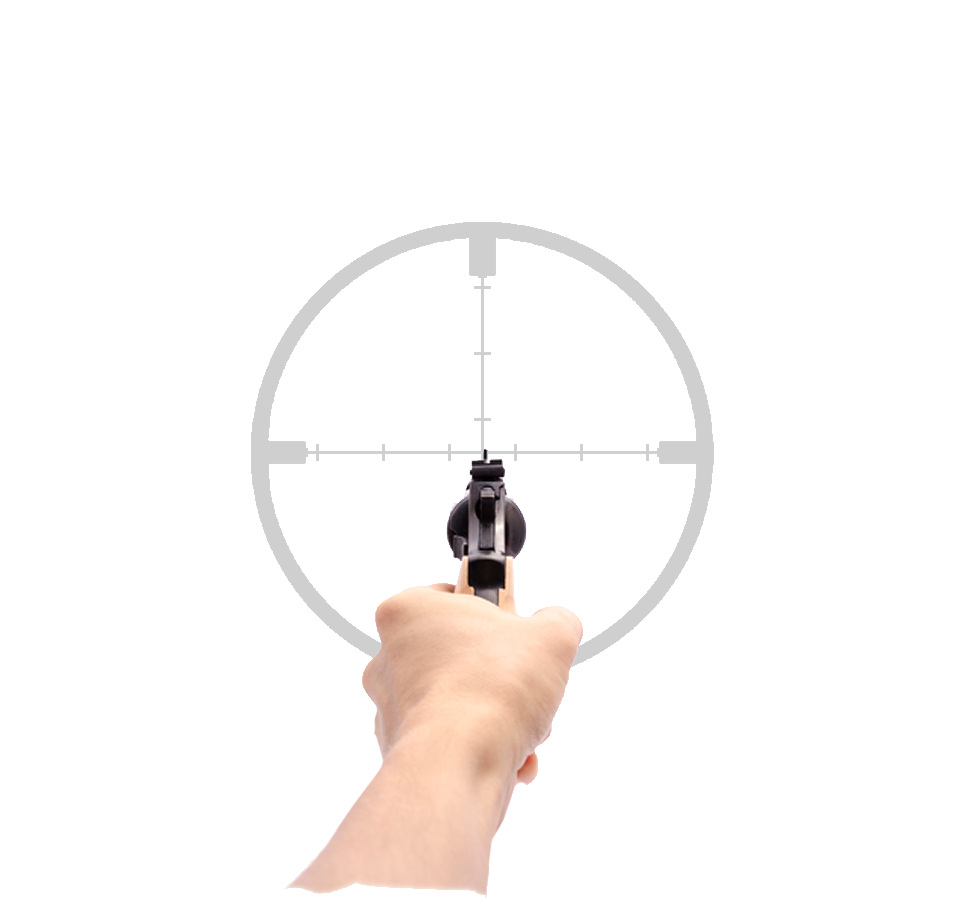
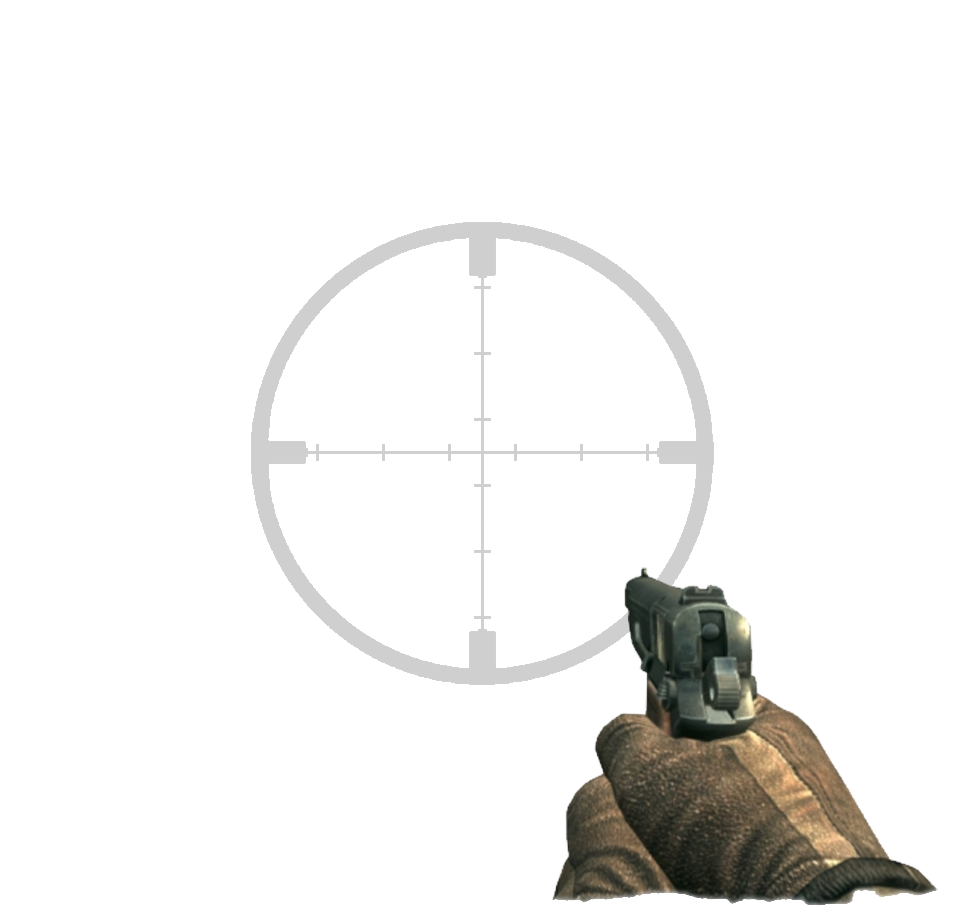
test

Changed region(s): [[0.5752, 0.6181, 0.9687, 1.0], [0.3027, 0.4945, 0.6054, 0.989]]

diff --git a/high-noon.html b/high-noon.html
@@ -4,7 +4,7 @@
     <meta charset="utf-8">
     <meta name="viewport" content="width=device-width, initial-scale=1">
 
-    <title>High noon</title>
+    <title>High Noon</title>
 
     <link href="bootstrap.min.css" rel="stylesheet">
     <link href="navbar-top-fixed.css" rel="stylesheet">
@@ -13,41 +13,12 @@
 </head>
 <body style="background-image: url('bg1.png');">
 
-<!--<nav class="navbar navbar-expand-md navbar-dark fixed-top bg-dark">-->
-<!--    <div class="container-fluid">-->
-<!--        <a class="navbar-brand" href="#">High Noon</a>-->
-<!--        <button class="navbar-toggler" type="button" data-bs-toggle="collapse" data-bs-target="#navbarCollapse"-->
-<!--                aria-controls="navbarCollapse" aria-expanded="false" aria-label="Toggle navigation">-->
-<!--            <span class="navbar-toggler-icon"></span>-->
-<!--        </button>-->
-<!--        <div class="collapse navbar-collapse" id="navbarCollapse">-->
-<!--            <ul class="navbar-nav me-auto mb-2 mb-md-0">-->
-<!--                <li class="nav-item">-->
-<!--                    <a class="nav-link active" aria-current="page" href="#">Home</a>-->
-<!--                </li>-->
-<!--                <li class="nav-item">-->
-<!--                    <a class="nav-link" href="#">Link</a>-->
-<!--                </li>-->
-<!--                <li class="nav-item">-->
-<!--                    <a class="nav-link disabled" href="#" tabindex="-1" aria-disabled="true">Disabled</a>-->
-<!--                </li>-->
-<!--            </ul>-->
-<!--            <form class="d-flex">-->
-<!--                <input class="form-control me-2" type="search" placeholder="Search" aria-label="Search">-->
-<!--                <button class="btn btn-outline-success" type="submit">Join</button>-->
-<!--            </form>-->
-<!--        </div>-->
-<!--    </div>-->
-<!--</nav>-->
-
-<main class="container">
+<main class="container d-flex flex-column align-items-center justify-content-center">
     <div id="myDiv" class="row justify-content-center">
         <video id="video" hidden autoplay playsinline></video>
         <img src="paper.png" class="paper">
-        <!--            <img src="overlay.jpg" class="coveredImage">-->
-
         <canvas id="canvas" class="canvas"></canvas>
-
+        <img src="hand.png" class="overlay">
         <div id="output">Loading... Sound on!</div>
         <div id="gallery"></div>
     </div>
@@ -59,14 +30,10 @@
     }
 </script>
 
-
 <script src="bootstrap.bundle.min.js"></script>
 <script src="tfjs.js"></script>
 <script src="body-pix.js"></script>
-<!--<script src="https://cdn.jsdelivr.net/npm/@tensorflow/tfjs"></script>-->
-<!--<script src="https://cdn.jsdelivr.net/npm/@tensorflow-models/body-pix"></script>-->
 <script src="script.js"></script>
-
 
 </body>
 </html>

diff --git a/styles.css b/styles.css
@@ -1,9 +1,8 @@
 body {
-    display: flex;
-    flex-direction: column;
-    align-items: center;
-    justify-content: center;
     margin: 0;
+    background-size: cover;
+    background-repeat: no-repeat;
+    background-position: center;
 }
 
 #canvas, #video {
@@ -22,12 +21,12 @@ body {
 }
 
 #gallery {
-    align-items: center;
     display: flex;
     flex-direction: row;
+    justify-content: space-evenly;
+    align-items: center;
     margin-top: 10px;
-    width: 100%;
-    justify-content: space-between;
+    width: 480px;
 }
 
 #gallery img {
@@ -35,22 +34,22 @@ body {
     height: auto;
 }
 
+#myDiv .canvas, #myDiv .overlay, #myDiv .paper {
+    position: absolute;
+    width: 480px;
+    height: 480px;
+}
 
-.canvas {
-    position: relative;
-    top: 0;
-    left: 0;
-    width: 480px !important;
-    height: 480px !important;
-    pointer-events: none;
+#myDiv .canvas {
     z-index: 20;
     filter: brightness(200%);
     mix-blend-mode: darken;
 }
 
-.paper {
-    width: 480px !important;
-    height: 480px !important;
-    position: absolute;
+#myDiv .overlay {
+    z-index: 25;
+}
+
+#myDiv .paper {
     z-index: 1;
 }
